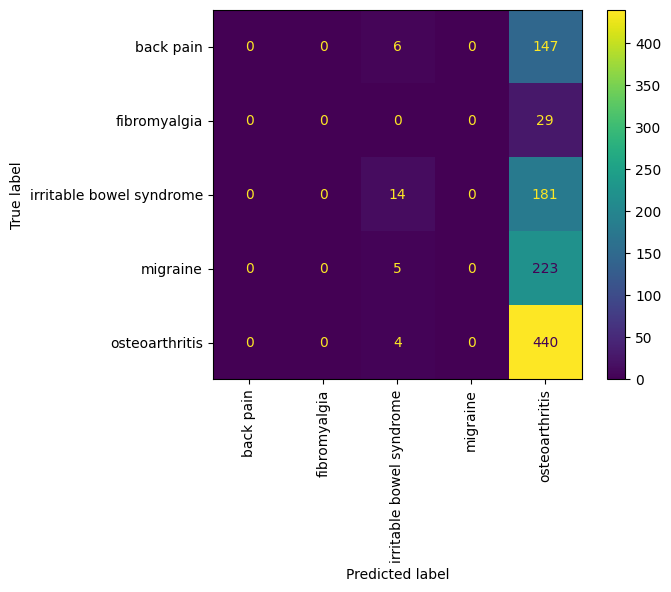
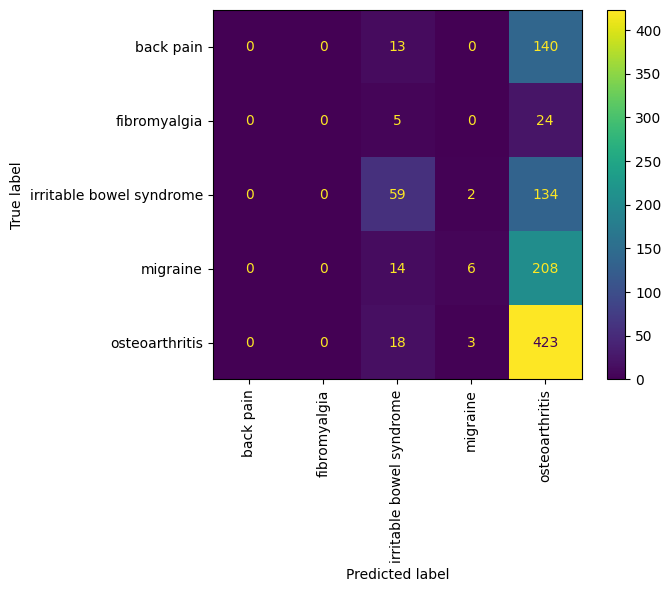
fixed code match bug

diff --git a/clean_questions.py b/clean_questions.py
@@ -14,9 +14,9 @@ def extract_qs(df_subjects, df_questionnaire, visits=[2]):
     # extract all fields with questionnaire code
     field_cols = []
     for code in field_code:
-#         print(code)
-#         print(field_cols)
-        cols_ls = [col for col in df_subjects.columns if str(code)+'-' in col]
+        # cols_ls = [col for col in df_subjects.columns if str(code)+'-' in col]
+        code_root = str(code)+'-'
+        cols_ls = [col for col in df_subjects.columns if col[:len(code_root)]==code_root]
         if visits != None: # limit to visits only
             if len(cols_ls) > 1:
                 cols_exclude = []
@@ -223,7 +223,6 @@ def match_question(q_codes):
 
 # # running
 # if __name__=="__main__":
-#     match_question(['20403-0.0','20403-0.0'])
 
 # running
 if __name__=="__main__":
@@ -236,8 +235,8 @@ if __name__=="__main__":
     # load questionnaire codes
     # questionnaire_ls = ['lifestyle','mental','cognitive','digestive','all']
     questionnaire_ls = ['all']
-    question_visits = [0,1,2]
-    # question_visits = [2]
+    # question_visits = [0,1,2]
+    question_visits = [2]
     for q in questionnaire_ls:
         df_qs = load_qscode(q)
         # extract questionnaire of interest
